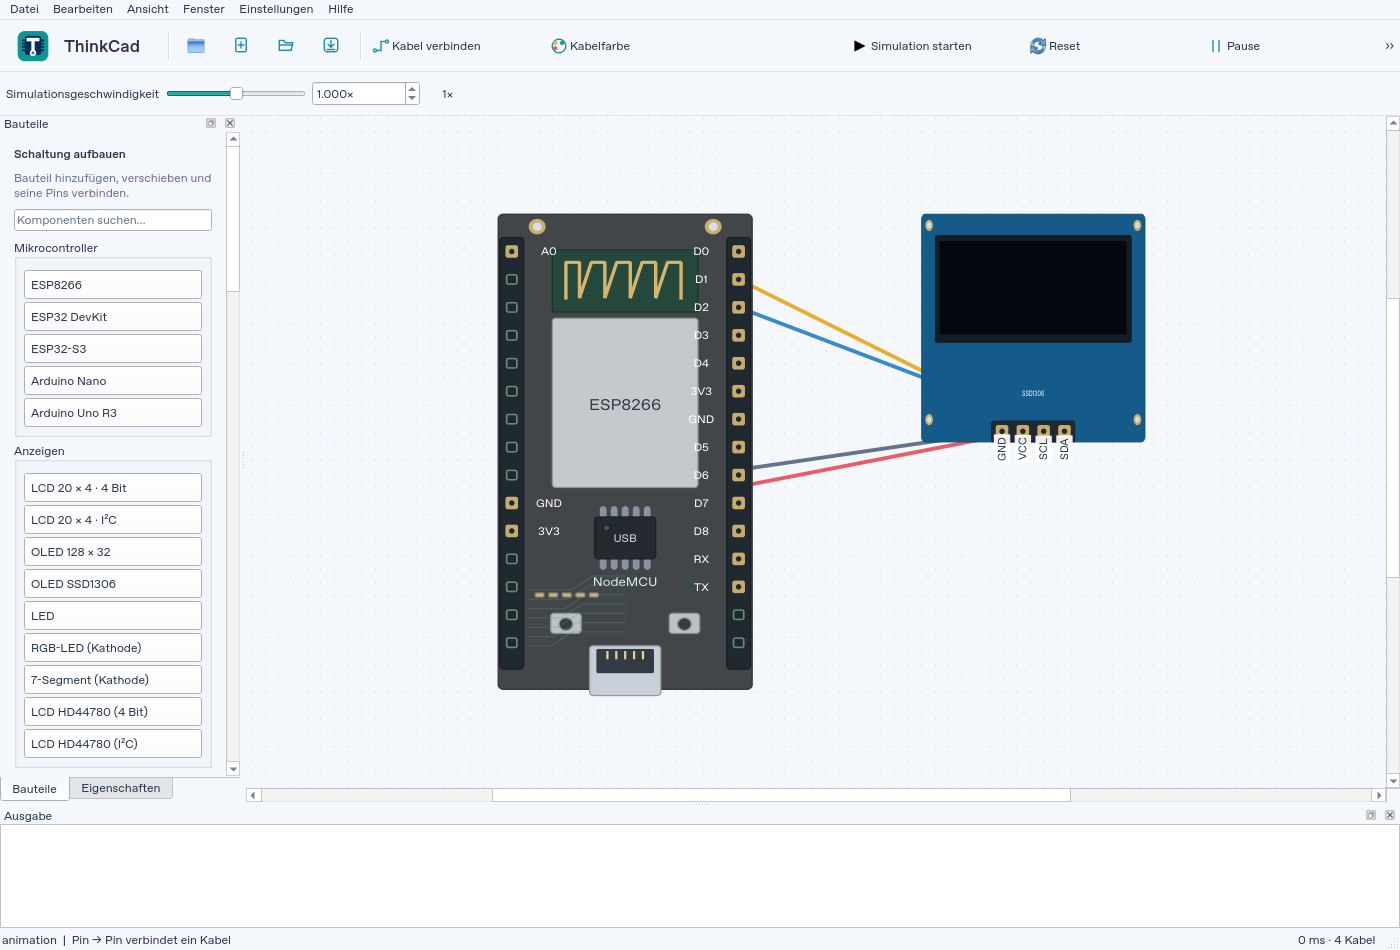
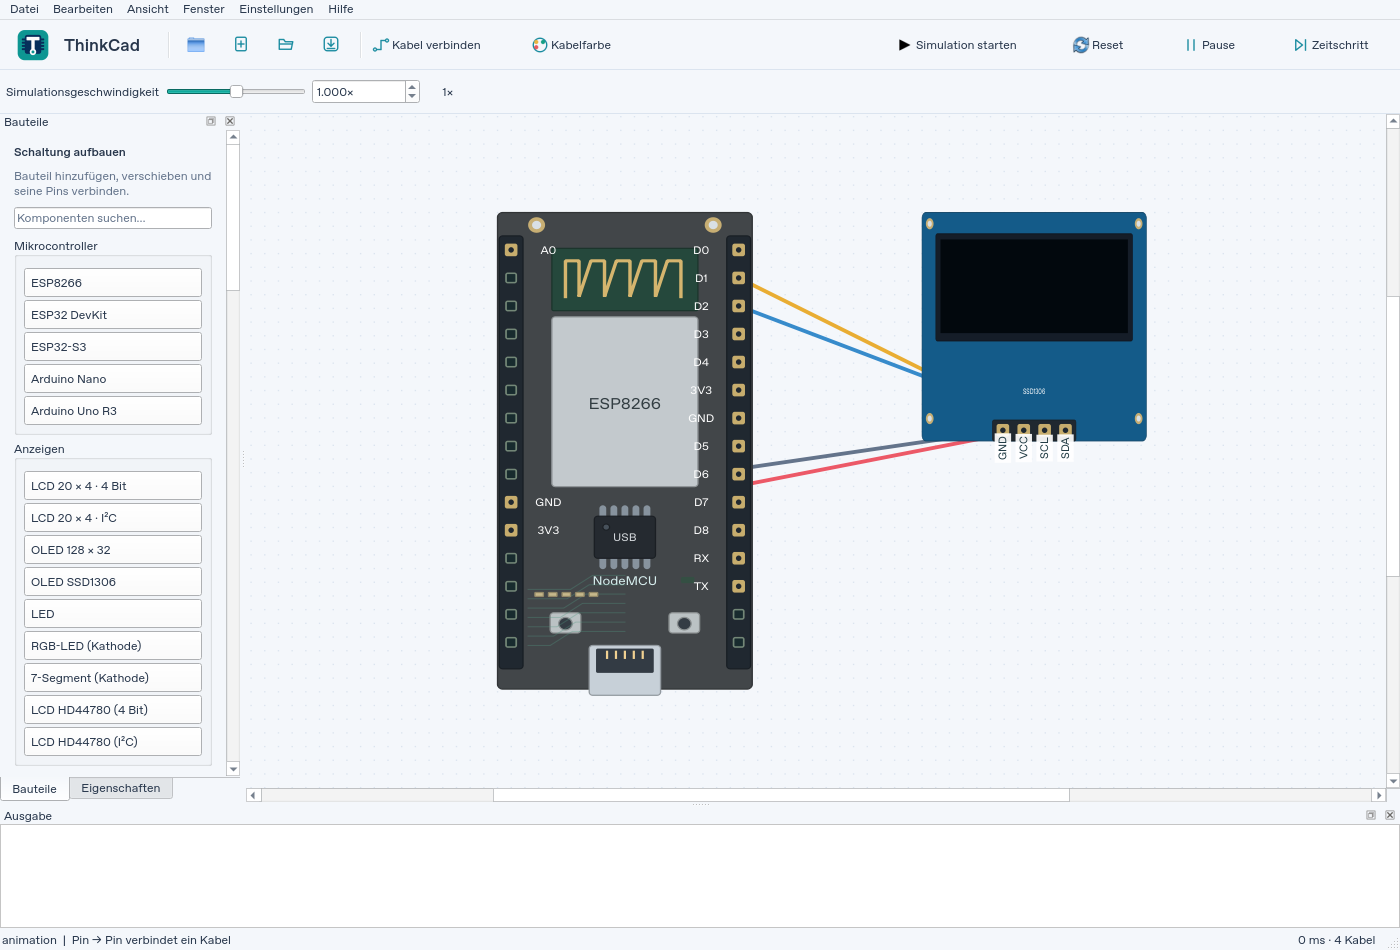
Keep flat simulation controls visible at standard window sizes

diff --git a/tests/experience_tests.cpp b/tests/experience_tests.cpp
@@ -44,7 +44,7 @@ class ExperienceTests:public QObject {
 private slots:
  void initTestCase(){QCoreApplication::setOrganizationName("ThinkCadExperienceTests");QSettings::setDefaultFormat(QSettings::IniFormat);QSettings::setPath(QSettings::IniFormat,QSettings::UserScope,temporary_.path());qputenv("THINKCAD_RECOVERY_DIR",temporary_.filePath("recovery").toUtf8());}
  void init(){QSettings().clear();Language::set("de");ComponentDesign::set("blocks");Theme::apply(false);}
- void dragPlacementDoesNotChangeTab(){MainWindow window;window.show();QTest::qWait(100);auto* parts=window.findChild<QDockWidget*>("partsDock");auto* properties=window.findChild<QDockWidget*>("inspectorDock");QVERIFY(parts&&properties);parts->raise();auto before=window.circuit().parts().size();auto* card=window.findChild<QPushButton*>("componentCard");QVERIFY(card);QTest::mouseClick(card,Qt::LeftButton);QCOMPARE(window.circuit().parts().size(),before);drop(window.canvas(),PartKind::Esp8266,"arduino-nano");QCOMPARE(window.circuit().parts().size(),before+1);QCOMPARE(window.circuit().parts().back().model,std::string("arduino-nano"));QVERIFY(parts->visibleRegion().boundingRect().height()>0);window.canvas()->selectPart(window.circuit().parts().back().id);QVERIFY(parts->visibleRegion().boundingRect().height()>0);window.canvas()->history()->undo();QCOMPARE(window.circuit().parts().size(),before);window.canvas()->history()->redo();QCOMPARE(window.circuit().parts().size(),before+1);window.startSimulation();QTest::qWait(50);drop(window.canvas(),PartKind::Led);QCOMPARE(window.circuit().parts().size(),before+1);window.stopSimulation();shot(window,"v12-workspace");}
+ void dragPlacementDoesNotChangeTab(){MainWindow window;window.show();QTest::qWait(100);auto* parts=window.findChild<QDockWidget*>("partsDock");auto* properties=window.findChild<QDockWidget*>("inspectorDock");QVERIFY(parts&&properties);parts->raise();auto before=window.circuit().parts().size();auto* card=window.findChild<QPushButton*>("componentCard");QVERIFY(card);QTest::mouseClick(card,Qt::LeftButton);QCOMPARE(window.circuit().parts().size(),before);drop(window.canvas(),PartKind::Esp8266,"arduino-nano");QCOMPARE(window.circuit().parts().size(),before+1);QCOMPARE(window.circuit().parts().back().model,std::string("arduino-nano"));QVERIFY(parts->visibleRegion().boundingRect().height()>0);window.canvas()->selectPart(window.circuit().parts().back().id);QVERIFY(parts->visibleRegion().boundingRect().height()>0);window.canvas()->history()->undo();QCOMPARE(window.circuit().parts().size(),before);window.canvas()->history()->redo();QCOMPARE(window.circuit().parts().size(),before+1);window.startSimulation();QTest::qWait(50);drop(window.canvas(),PartKind::Led);QCOMPARE(window.circuit().parts().size(),before+1);window.stopSimulation();QVERIFY(window.loadExample("button_led"));shot(window,"v12-workspace");}
  void simulationClickPassesThroughWire(){MainWindow window;window.show();QVERIFY(window.loadExample("button_led"));auto* canvas=window.canvas();std::string button,wire;for(const auto& p:window.circuit().parts())if(p.kind==PartKind::Button)button=p.id;QVERIFY(!button.empty()); // Replace below with an existing wire path; endpoints remain electrically unchanged.
  window.startSimulation();QTRY_VERIFY_WITH_TIMEOUT(window.simulationTime()>10000,15000);QGraphicsItem* buttonItem=nullptr;QGraphicsPathItem* wireItem=nullptr;for(auto* item:canvas->scene()->items()){if(item->data(0)=="part"&&item->data(1).toString()==QString::fromStdString(button))buttonItem=item;if(item->data(0)=="wire")wireItem=static_cast<QGraphicsPathItem*>(item);if(item->data(0)=="wire")QVERIFY(!(item->flags()&QGraphicsItem::ItemIsSelectable));if(item->data(0)=="part"&&(item->data(1)=="board"||window.circuit().part(item->data(1).toString().toStdString()).kind==PartKind::Resistor))QVERIFY(!(item->flags()&QGraphicsItem::ItemIsSelectable));}QVERIFY(buttonItem&&wireItem);canvas->fitCircuit();auto center=buttonItem->mapToScene(buttonItem->boundingRect().center());QPainterPath path(center-QPointF(100,0));path.lineTo(center+QPointF(100,0));wireItem->setPath(path);wireItem->setZValue(50);QTest::mouseClick(canvas->viewport(),Qt::LeftButton,Qt::NoModifier,canvas->mapFromScene(center));QVERIFY(window.circuit().part(button).pressed);window.stopSimulation();for(auto* item:canvas->scene()->items())if(item->data(0)=="wire")QVERIFY(item->flags()&QGraphicsItem::ItemIsSelectable);}
  void localAutosaveWritesNamedProject(){MainWindow window;window.show();auto* timer=window.findChild<QTimer*>("localSaveTimer");QVERIFY(timer);QCOMPARE(timer->interval(),60000);auto path=temporary_.filePath("autosave.thinkcad");QVERIFY(window.saveProjectTo(path));window.canvas()->mutate("edit",[](auto& d){d.part("board").x=123;});window.saveLocalAutomatically();QCOMPARE(ProjectIO::load(path).circuit.part("board").x,123.);QSettings().setValue("localAutosave",false);window.canvas()->mutate("edit",[](auto& d){d.part("board").x=456;});window.saveLocalAutomatically();QCOMPARE(ProjectIO::load(path).circuit.part("board").x,123.);}

diff --git a/src/gui/mainwindow.cpp b/src/gui/mainwindow.cpp
@@ -69,10 +69,10 @@ QString title(PartKind kind){return Language::text(QString::fromStdString(compon
 void sizeSimulationButtons(QWidget* root){
     for(auto* button:root->findChildren<QToolButton*>()){
         if(!button->property("flatControl").toBool())continue;
-        int width=156;
-        for(const auto& text:{"Simulation starten","Simulation stoppen","Reset","Pause","Zeitschritt","Kabel verbinden","Kabelfarbe"})
-            width=std::max(width,button->fontMetrics().horizontalAdvance(Language::text(text))+32);
-        button->setFixedSize(width,40);
+        auto text=button->text();
+        int width=std::max(88,button->fontMetrics().horizontalAdvance(text)+48);
+        if(button->objectName()=="runButton")for(const auto* name:{"Simulation starten","Simulation stoppen"})width=std::max(width,button->fontMetrics().horizontalAdvance(Language::text(name))+48);
+        button->setFixedSize(width,36);
     }
 }
 QToolButton* addSimulationButton(QToolBar* bar,QAction* action,const char* name){

diff --git a/tests/desktop_tests.cpp b/tests/desktop_tests.cpp
@@ -164,7 +164,7 @@ private slots:
         }
         auto* run=window.findChild<QToolButton*>("runButton");auto* reset=window.findChild<QToolButton*>("resetButton");QVERIFY(run&&reset);QVERIFY(run->isVisible()&&reset->isVisible());QVERIFY2(reset->geometry().left()-run->geometry().right()>=10,qPrintable(QString("Run %1,%2 Reset %3,%4").arg(run->x()).arg(run->width()).arg(reset->x()).arg(reset->width())));QCOMPARE(run->height(),reset->height());
         for(const auto* name:{"runButton","resetButton","pauseButton","stepButton","wireButton","wireColorButton"}){
-            auto* button=window.findChild<QToolButton*>(name);QVERIFY(button);QCOMPARE(button->size(),run->size());
+            auto* button=window.findChild<QToolButton*>(name);QVERIFY(button);QCOMPARE(button->height(),run->height());
             QVERIFY(!button->icon().isNull());QVERIFY(button->autoRaise());QCOMPARE(button->toolButtonStyle(),Qt::ToolButtonTextBesideIcon);
         }
     }
